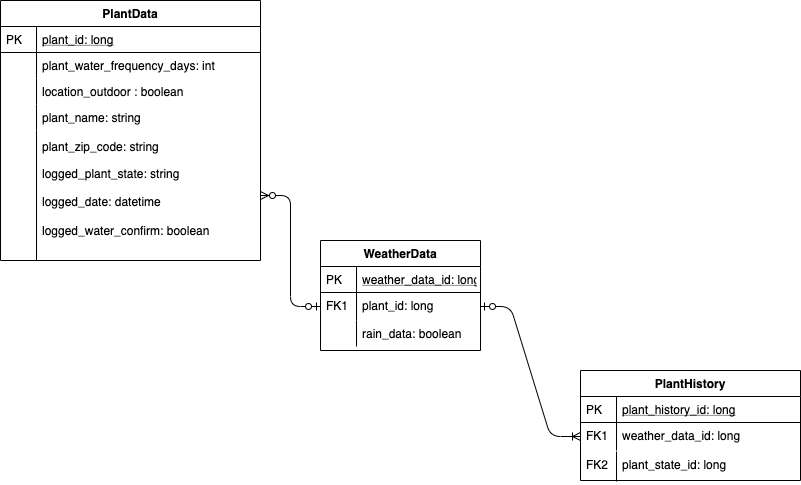
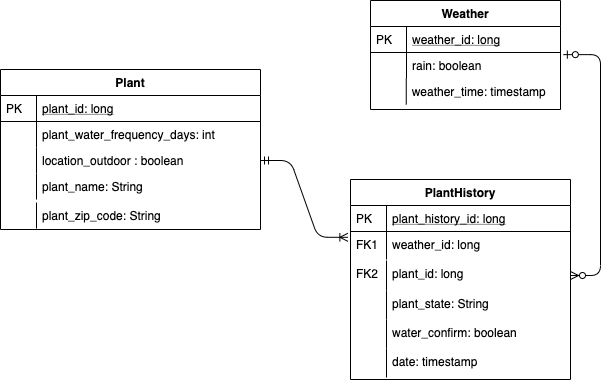
updated ERD files and index for clarity

diff --git a/docs/index.md b/docs/index.md
@@ -7,46 +7,57 @@ The Planta Dice app reminds users to water their plants on a regular basis. It t
 
 ## Design documentation
 
-* [Wireframe diagram](wireframe.md)
+* [Wireframe diagram](wireframe.md){target="_blank}
 
 ## Entity documentation
 
-* [Entity relationship diagram](erd.md)
+* [Entity relationship diagram](erd.md){target="_blank}
 
 ## Intended users
 
-* People who are busy with multiple activities outside of the house.
+* People who are busy with multiple activities outside of the house
 
 >_As someone who goes to school, work, and has a growing family, I need an app to remind me that my plants need to be watered so that I don't have to invest more time and money in replacing my plants._  
 
-* People who have color deficient vision.
+* People who have color-deficient vision
 
 >_As someone who has trouble distinguishing colors, particularly between green and brown, I need an app that alerts me when my plants need to be watered so that they survive and continue to adorn my household._
 
 ## Functionality
 
-* App will allow user to input plant type and if it is located outdoors
-* If outdoor is selected app will require user's ZIP code.  
-* App will determine watering interval based on plant's water needs with the interval counting down from the time of entering plant data.
+* App will allow user to input plant type and if it is located indoors or outdoors
+* If outdoor is selected, app will require user's ZIP code
+* App will determine watering interval based on plant's water needs with the interval counting down from the time of entering plant data
 * App will query weather service for precipitation over the previous three days and adjust recommendations accordingly
 * Send notifications to user when to water plants
 
 
 ## Persistent data
 
-* Data log including plant's watering history and perceived condition by the user.
-    * Information log will be available to user by clicking on "Review Waterings" button on Home Screen.
+* Data log including plant's watering history and perceived condition by the user
+    * Information log will be available to user by clicking on "Review Waterings" button on Home Screen
 
 
 ## Device/external services
 
 * Android notification system
+* Android alarm manager
 * Realtime weather data by user's ZIP code
-* Data queries to made via API to [Weather Unlocked](https://developer.weatherunlocked.com/documentation/localweather)
-* [API link](http://api.weatherunlocked.com/)
+* Data queries to made via API to [Weather Unlocked](https://developer.weatherunlocked.com/documentation/localweather){target="_blank}
+* [API link](http://api.weatherunlocked.com/){target="_blank}
 * Location services of Weather Unlocked support the structure of postal codes by structuring the query with "country.postcode".ex: 'us.87109'.
-* On the scheduled day of watering, query will be made for weather data for user's ZIP code.
-* Response will be reviewed for precipitation values over the prior 3 days.
-* If precipitation is greater than (>) 0.5 inches, then the app will _not_ notify the user to water the plant.
-* Data, log of precipitation value and scheduled water day skip will be written to Plant History database resource.
-* If weather data becomes unavailable, app will continue standard interval notifications to user.
+* On the scheduled day of watering, query will be made for weather data for user's ZIP code
+* Response will be reviewed for precipitation values over the prior 3 days
+* If precipitation is greater than (>) 0.5 inches, then the app will _not_ notify the user to water the plant
+* Data, log of precipitation value and scheduled water day skip will be written to Plant History database resource
+* If weather data becomes unavailable, app will continue standard interval notifications to user
+
+## Stretch goals/possible enhancements
+
+* Ability for users to upload pictures of plants being added
+* User to request type of watering schedule
+  - To group waterings to the fewest instances, or standard incremental notifications as they come up
+* Rating system to determine if the plants need to dynamically modify water frequency based on plant condition poll
+* Dew / humidity taken into account for outdoor plants
+* Seasonal pattern recognition for varying watering requirements
+* User able to log addition of fertilizer and noted on plant history
